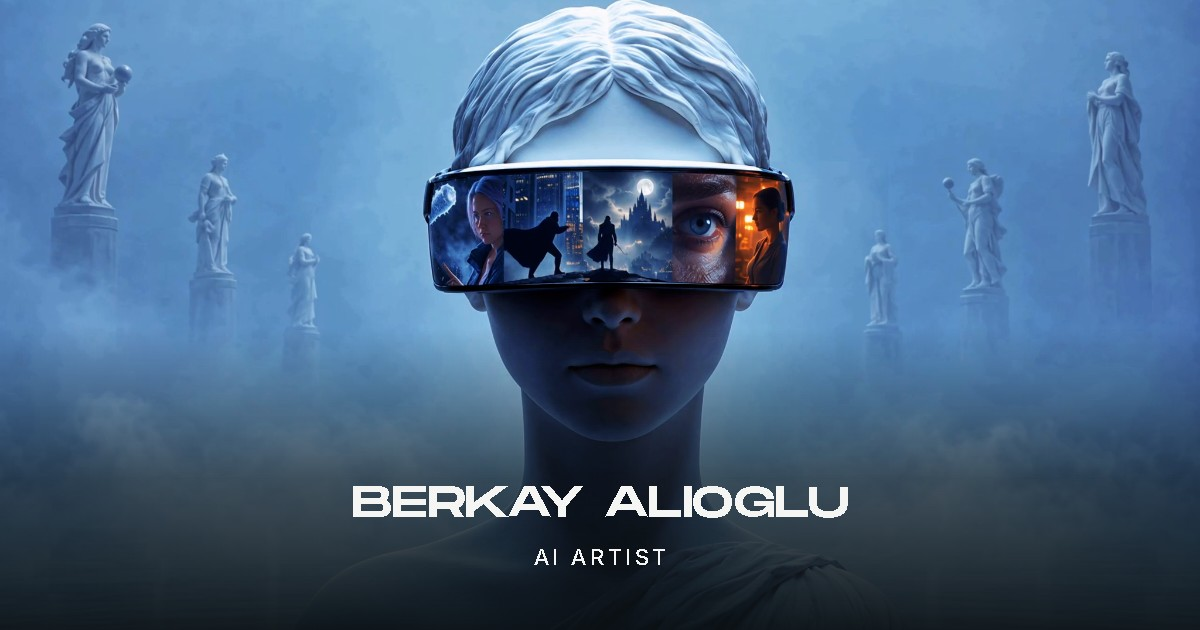
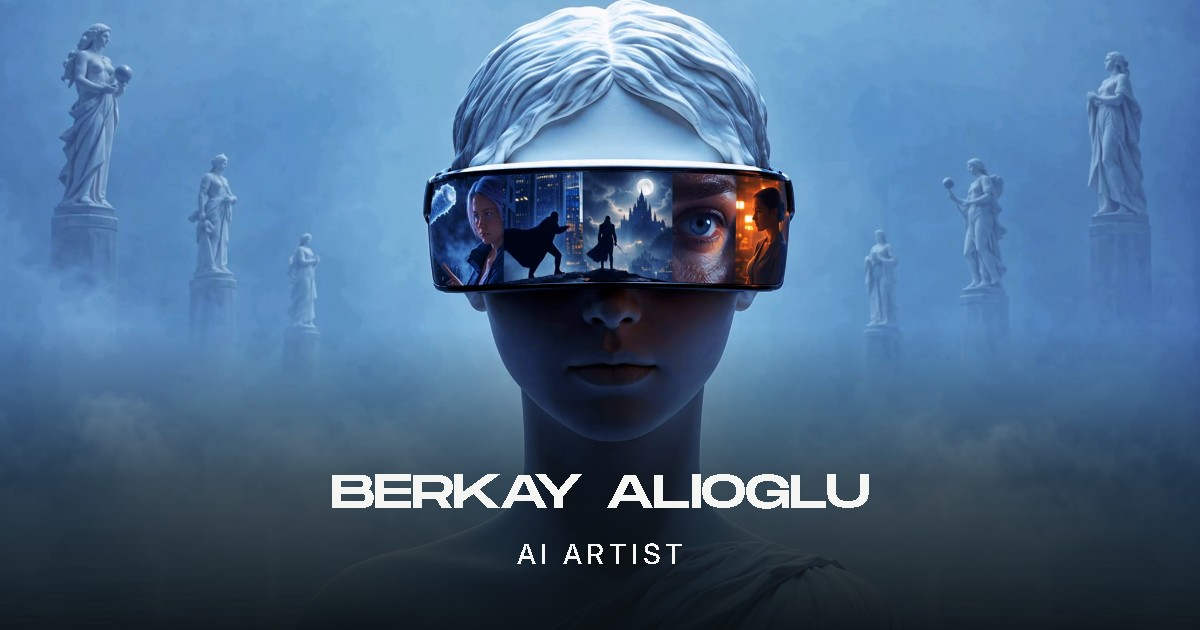
Share image: slightly larger name and AI ARTIST

Changed region(s): [[0.2775, 0.754, 0.74, 0.9048]]

diff --git a/index.html b/index.html
@@ -9,7 +9,7 @@
   <meta property="og:title" content="Berkay Alioglu">
   <meta property="og:description" content="AI Artist">
   <meta property="og:url" content="https://berkayalioglu.com/">
-  <meta property="og:image" content="https://berkayalioglu.com/assets/share.jpg?v=5">
+  <meta property="og:image" content="https://berkayalioglu.com/assets/share.jpg?v=6">
   <meta property="og:image:width" content="1200">
   <meta property="og:image:height" content="630">
   <meta property="og:image:alt" content="Berkay Alioglu — AI artist and filmmaker">
